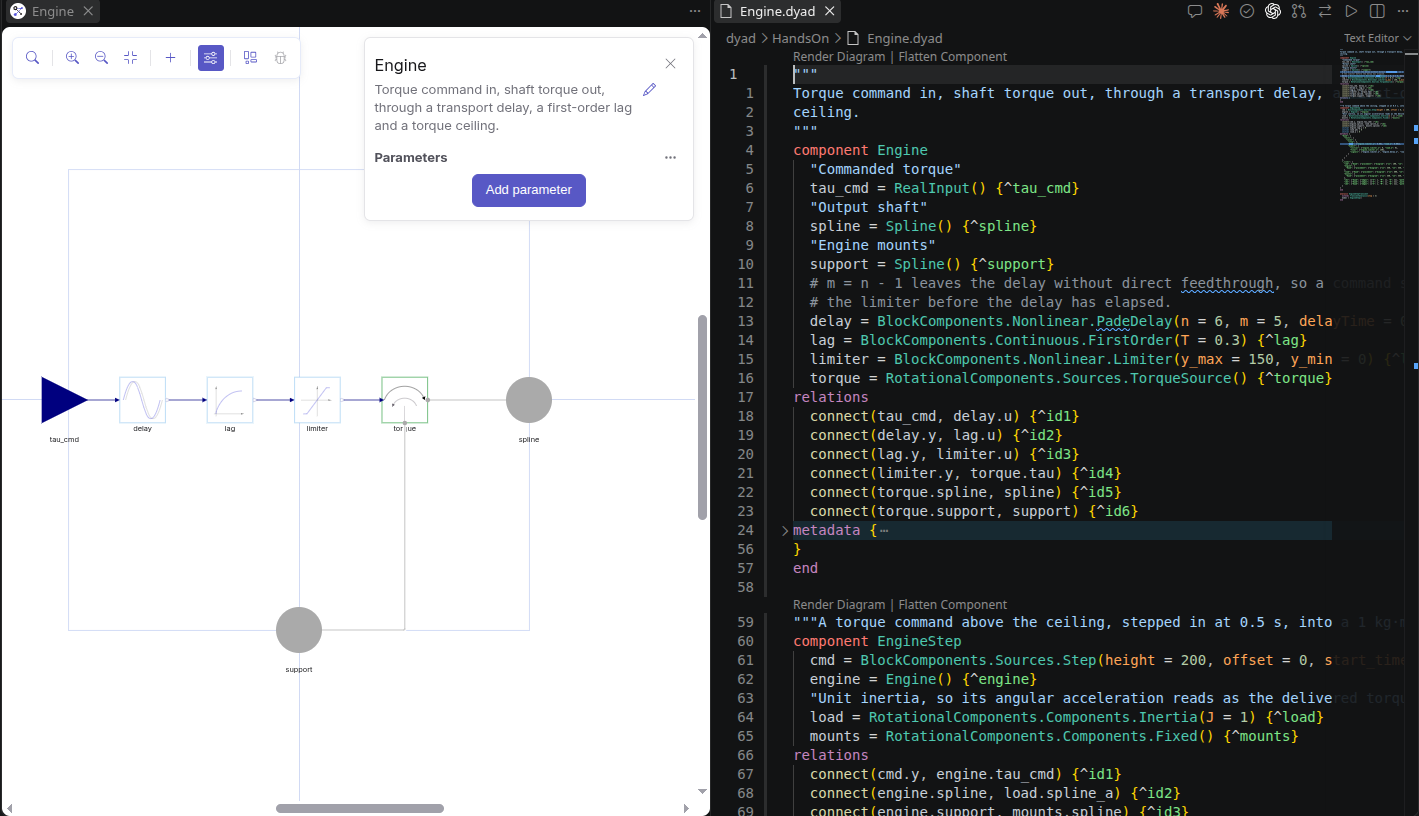
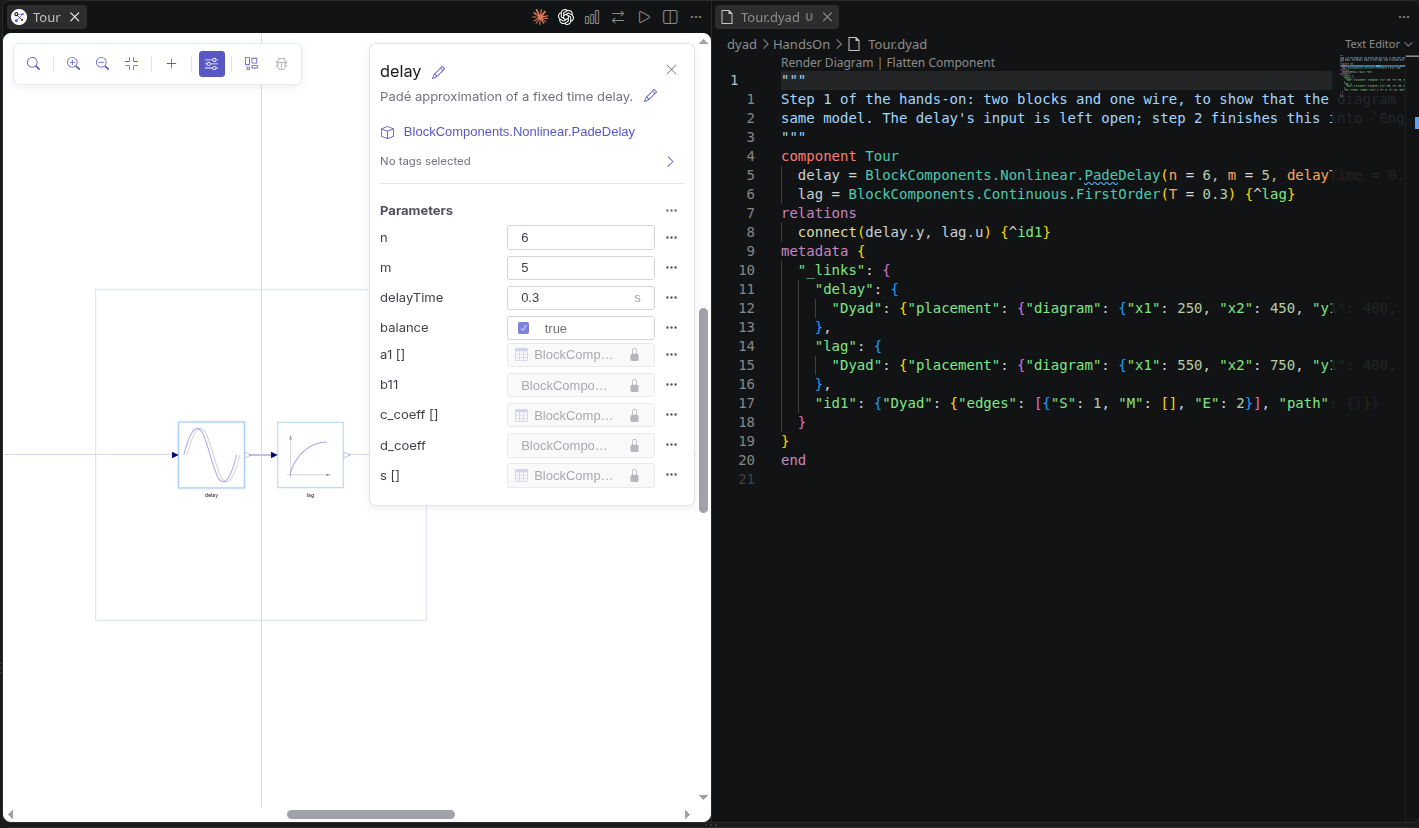
docs(handson): show step 1 as the two-block model students actually build
Step 1 places only the delay and the lag, but its screenshot showed the finished engine. A
two-block Tour component now backs the step: the screenshot is that model with the delay's
parameter panel open, and the step's solution panel quotes its source instead of an excerpt of
Engine.

diff --git a/docs/handson/lecture-01/index.html b/docs/handson/lecture-01/index.html
@@ -210,8 +210,8 @@
       three facts: two parts with their parameters, one wire.</figcaption></figure>
   </div>
   <figure class="shot-img">
-    <a href="img/step01-engine-two-views.png"><img src="img/step01-engine-two-views.png" alt="Engine in Dyad Studio: the diagram view on the left and the code view on the right are the same component." loading="lazy"></a>
-    <figcaption>Same model, two views: each block in the diagram is one line under <code>component Engine</code>, and each wire is one <code>connect</code> under <code>relations</code>.</figcaption>
+    <a href="img/step01-engine-two-views.png"><img src="img/step01-engine-two-views.png" alt="Tour in Dyad Studio: delay and lag wired in the diagram with the delay parameter panel open, and the same component in the code view." loading="lazy"></a>
+    <figcaption>Same model, two views: each block in the diagram is one line under <code>component</code>, the wire is the one <code>connect</code> under <code>relations</code>, and the values in the parameter panel are the arguments in parentheses.</figcaption>
   </figure>
   <h3>Do this</h3>
   <ol class="actions">
@@ -226,12 +226,14 @@
   
   <div class="checkpoint"><span class="label">Checkpoint</span><p>The code view shows the two declarations and one <code>connect(delay.y, lag.u)</code>, matching the box on the right above. Keep this component open: step 2 finishes it.</p></div>
   <details class="solution">
-  <summary>Stuck? The lines you should see</summary>
-  <p class="small muted">Excerpt of <code>dyad/HandsOn/Engine.dyad</code>, verbatim. The full
-    component is the solution to step 2.</p>
-  <div class="code"><button class="copy" type="button">Copy</button><pre><code>  delay = BlockComponents.Nonlinear.PadeDelay(n = 6, m = 5, delayTime = 0.3) {^delay}
+  <summary>Stuck? The full model</summary>
+  <p class="small muted">From <code>dyad/HandsOn/Tour.dyad</code>, metadata block omitted. Yours is called <code>Engine</code>; the reference copy is <code>Tour</code> only so it can sit next to the finished <code>Engine</code> of step 2.</p>
+  <div class="code"><button class="copy" type="button">Copy</button><pre><code>component Tour
+  delay = BlockComponents.Nonlinear.PadeDelay(n = 6, m = 5, delayTime = 0.3) {^delay}
   lag = BlockComponents.Continuous.FirstOrder(T = 0.3) {^lag}
-  connect(delay.y, lag.u) {^id2}</code></pre></div>
+relations
+  connect(delay.y, lag.u) {^id1}
+end</code></pre></div>
 </details>
 </section>
 <section class="step" id="engine">
